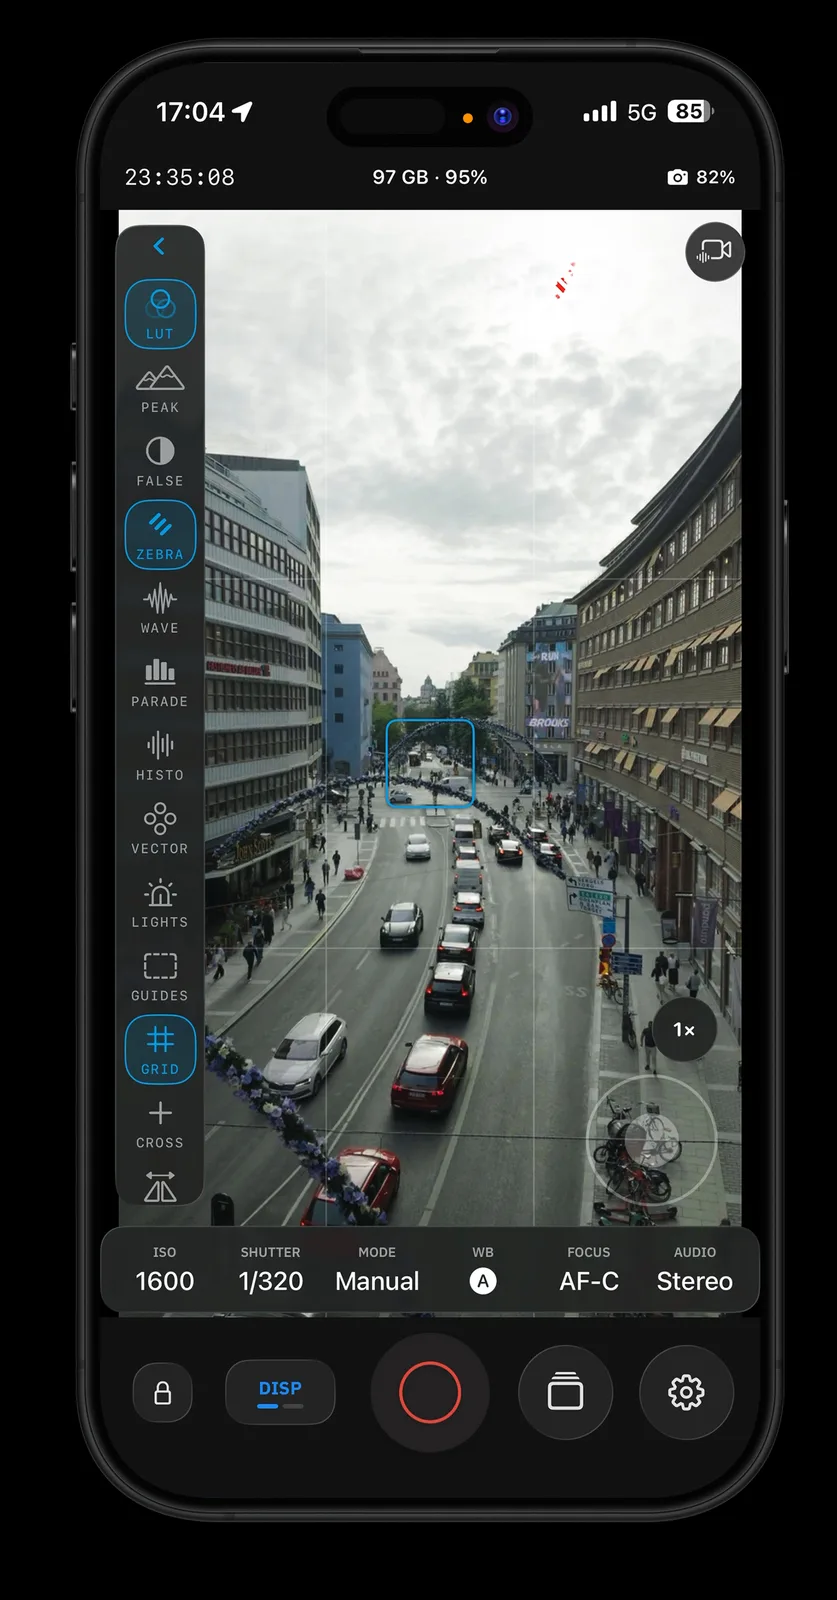
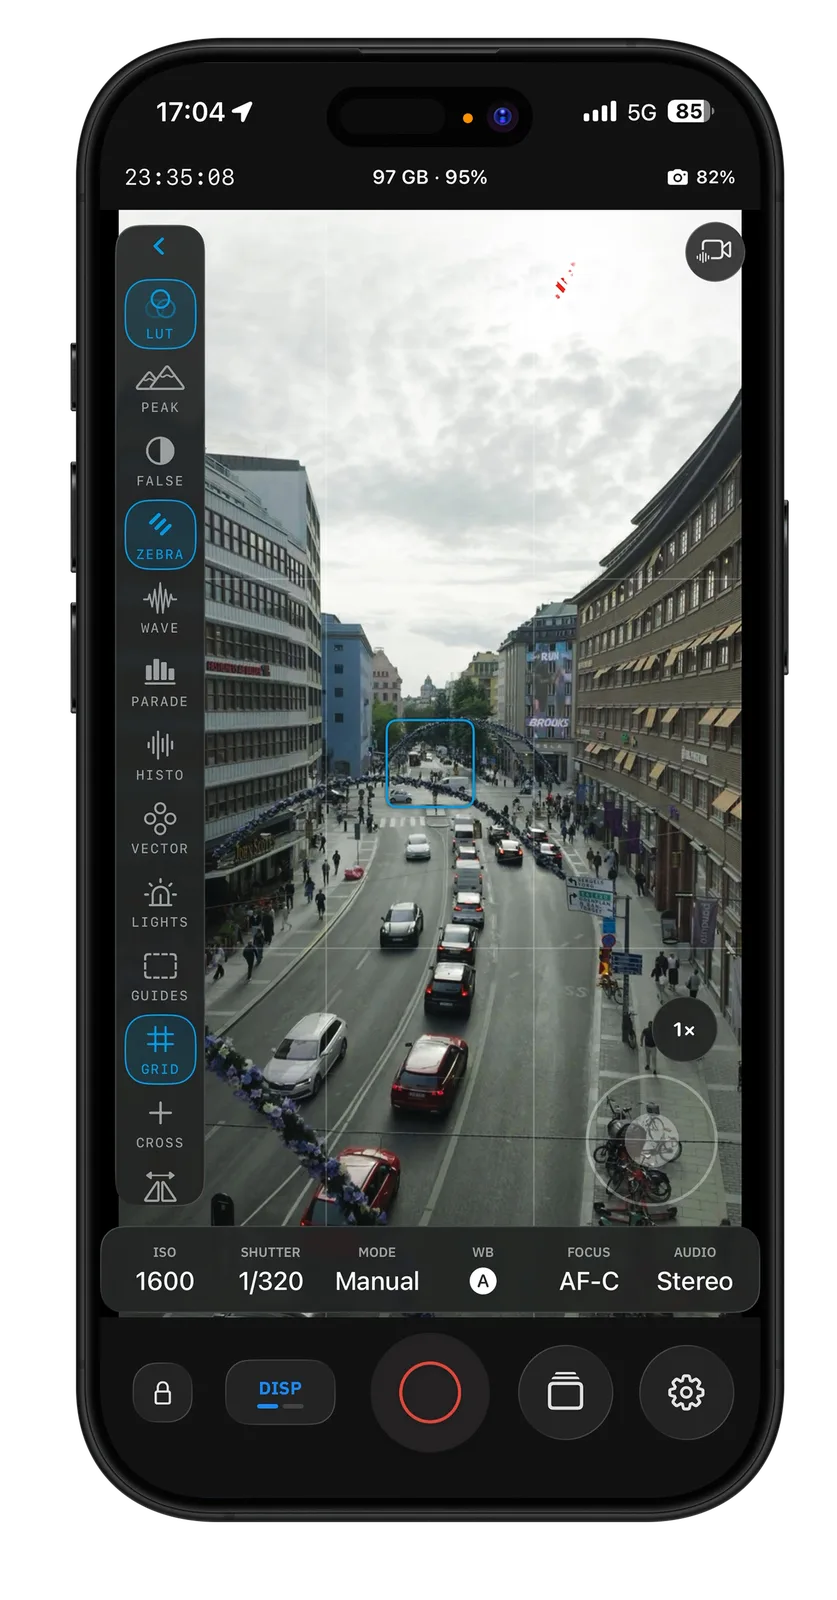
fix: lay field mockups out like the OpenZCine landing page
Drop the 2x2 grid. The lying-down monitor sits under the headline; scopes,
assists, and camera control each get their own copy-and-device section.

Changed region(s): [[0.0, 0.0, 1.0, 1.0]]

diff --git a/site/index.html b/site/index.html
@@ -7,7 +7,7 @@
   <meta name="description" content="OpenPocketCine is a free, open-source field-monitor app for DJI Osmo Pocket cameras. Live view, scopes, and assists over the camera's own Wi-Fi.">
   <meta name="theme-color" content="#0A0908">
   <meta name="referrer" content="no-referrer">
-  <meta http-equiv="Content-Security-Policy" content="default-src 'self'; script-src 'self'; style-src 'self' 'unsafe-inline' https://fonts.googleapis.com; font-src https://fonts.gstatic.com; img-src 'self' data:; connect-src 'self'; object-src 'none'; base-uri 'self'; form-action 'self'; upgrade-insecure-requests">
+  <meta http-equiv="Content-Security-Policy" content="default-src 'self'; script-src 'self' https://cdn.jsdelivr.net; style-src 'self' 'unsafe-inline' https://fonts.googleapis.com; font-src https://fonts.gstatic.com; img-src 'self' data:; connect-src 'self'; object-src 'none'; base-uri 'self'; form-action 'self'; upgrade-insecure-requests">
   <link rel="canonical" href="https://openpocketcine.app/">
   <meta property="og:type" content="website">
   <meta property="og:title" content="OpenPocketCine: Open-source field monitor for DJI Osmo Pocket">
@@ -27,6 +27,7 @@
   <a class="skip-link" href="#top">Skip to content</a>
   <div class="bg-glow" aria-hidden="true"></div>
   <div class="grain" aria-hidden="true"></div>
+  <div class="spotlight" aria-hidden="true"></div>
 
   <header class="nav" id="nav">
     <div class="container nav__inner">
@@ -35,14 +36,15 @@
         <span>OpenPocketCine</span>
       </a>
       <nav class="nav__links" aria-label="Primary">
-        <a href="#shots">Shots</a>
+        <a href="#scopes">Scopes</a>
+        <a href="#assists">Assists</a>
+        <a href="#commander">Control</a>
         <a href="#open-source">Open Source</a>
-        <a href="#credits">Credits</a>
         <a href="/support/">Support</a>
       </nav>
       <div class="nav__cta">
         <a class="nav__github" href="https://github.com/erik-sutton95/OpenPocketCine" target="_blank" rel="noopener" aria-label="OpenPocketCine on GitHub">★ GitHub</a>
-        <a class="btn btn--primary" href="https://github.com/erik-sutton95/OpenPocketCine"><span class="btn__rec" aria-hidden="true"></span>Get the source</a>
+        <a class="btn btn--primary btn--magnetic" href="https://github.com/erik-sutton95/OpenPocketCine"><span class="btn__rec" aria-hidden="true"></span>Get the source</a>
       </div>
     </div>
   </header>
@@ -57,26 +59,99 @@
           with professional scopes and assists. Free, Apache-2.0, no vendor SDK.
         </p>
         <div class="hero__cta" data-intro>
-          <a class="btn btn--primary" href="https://github.com/erik-sutton95/OpenPocketCine">Get the source</a>
-          <a class="btn btn--ghost" href="/support/">How to connect</a>
+          <a class="btn btn--primary btn--magnetic" href="https://github.com/erik-sutton95/OpenPocketCine"><span class="btn__rec" aria-hidden="true"></span>Get the source</a>
+          <a class="btn btn--ghost btn--magnetic" href="/support/">How to connect<span class="btn__arrow" aria-hidden="true">→</span></a>
+        </div>
+
+        <div class="hero__mock" data-intro>
+          <img src="assets/screens/hero-monitor.webp"
+            alt="OpenPocketCine live monitor recording on a landscape iPhone"
+            width="1600" height="638" decoding="async">
         </div>
       </div>
     </section>
 
-    <section class="section" id="shots">
-      <div class="container">
-        <div class="shot-grid">
-          <img src="assets/screens/hero-monitor.webp" alt="OpenPocketCine live monitor recording" width="1600" height="638" decoding="async">
-          <img src="assets/screens/camera-controls.webp" alt="OpenPocketCine camera controls and zoom" width="1600" height="1057" loading="lazy" decoding="async">
-          <img src="assets/screens/scopes.webp" alt="OpenPocketCine waveform and Traffic Lights" width="1600" height="841" loading="lazy" decoding="async">
-          <img src="assets/screens/portrait-assists.webp" alt="OpenPocketCine portrait assist rail" width="837" height="1600" loading="lazy" decoding="async">
+    <div class="ticker" aria-hidden="true">
+      <div class="ticker__track">
+        <span class="ticker__group">
+          <span>Osmo Pocket 4</span><i></i><span>4 Pro</span><i></i><span>Osmo Nano</span><i></i>
+          <span>HEVC</span><i></i><span>AVC</span><i></i><span>D-Log2</span><i></i>
+          <span>Waveform</span><i></i><span>RGB Parade</span><i></i><span>Histogram</span><i></i>
+          <span>Vectorscope</span><i></i><span>False Color</span><i></i><span>Focus Peaking</span><i></i>
+          <span>Zebras</span><i></i><span>Traffic Lights</span><i></i><span>Camera to Cloud</span><i></i>
+        </span>
+        <span class="ticker__group">
+          <span>Osmo Pocket 4</span><i></i><span>4 Pro</span><i></i><span>Osmo Nano</span><i></i>
+          <span>HEVC</span><i></i><span>AVC</span><i></i><span>D-Log2</span><i></i>
+          <span>Waveform</span><i></i><span>RGB Parade</span><i></i><span>Histogram</span><i></i>
+          <span>Vectorscope</span><i></i><span>False Color</span><i></i><span>Focus Peaking</span><i></i>
+          <span>Zebras</span><i></i><span>Traffic Lights</span><i></i><span>Camera to Cloud</span><i></i>
+        </span>
+      </div>
+    </div>
+
+    <section class="statement" aria-label="OpenPocketCine in one sentence">
+      <p class="statement__text" id="statement">
+        <span class="w">Every</span> <span class="w">scope.</span>
+        <span class="w">Every</span> <span class="w">assist.</span>
+        <span class="w">Camera</span> <span class="w">control.</span>
+        <span class="w w--gold">Free,</span> <span class="w w--gold">and</span>
+        <span class="w w--gold">open</span> <span class="w w--gold">source.</span>
+      </p>
+    </section>
+
+    <section class="section phone-showcase" id="scopes">
+      <div class="container phone-showcase__inner">
+        <div class="phone-showcase__copy">
+          <span class="section-label"><span class="rec-dot"></span> Scopes</span>
+          <h2>Read the image like a colorist.</h2>
+          <p class="lead">Waveform, RGB parade, histogram, and vectorscope run live
+            beside the image you are judging, with Traffic Lights on the feed.</p>
         </div>
+        <figure class="phone-showcase__visual phone-showcase__visual--wide">
+          <img src="assets/screens/scopes.webp"
+            alt="OpenPocketCine waveform and Traffic Lights over a live view"
+            width="1600" height="841" loading="lazy" decoding="async">
+        </figure>
       </div>
     </section>
 
-    <section id="open-source">
-      <div class="container">
-        <span class="section-label">Free. Open source. Yours</span>
+    <section class="section phone-showcase" id="assists">
+      <div class="container phone-showcase__inner">
+        <div class="phone-showcase__copy">
+          <span class="section-label"><span class="rec-dot"></span> View Assist</span>
+          <h2>Catch it before the take.</h2>
+          <p class="lead">False color, zebras, Traffic Lights, peaking, grids, and
+            crosshairs sit on a rail next to the image — including in portrait.</p>
+        </div>
+        <figure class="phone-showcase__visual">
+          <img src="assets/screens/portrait-assists.webp"
+            alt="OpenPocketCine portrait assist rail with zebras and framing tools"
+            width="837" height="1600" loading="lazy" decoding="async">
+        </figure>
+      </div>
+    </section>
+
+    <section class="section phone-showcase" id="commander">
+      <div class="container phone-showcase__inner">
+        <div class="phone-showcase__copy">
+          <span class="section-label"><span class="rec-dot"></span> Camera Control</span>
+          <h2>Keep the camera in the rig.</h2>
+          <p class="lead">Pair over Bluetooth, join the camera's Wi-Fi, then set ISO,
+            EV, zoom, gimbal, and record from the phone on your cage.</p>
+        </div>
+        <figure class="phone-showcase__visual phone-showcase__visual--wide">
+          <img src="assets/screens/camera-controls.webp"
+            alt="OpenPocketCine camera controls and zoom while recording"
+            width="1600" height="1057" loading="lazy" decoding="async">
+        </figure>
+      </div>
+    </section>
+
+    <section class="section section--spot spot" id="open-source">
+      <div class="spot__glow" aria-hidden="true"></div>
+      <div class="container spot-oss__inner">
+        <span class="section-label"><span class="rec-dot"></span> Identity Core</span>
         <h2>No subscriptions, no telemetry.</h2>
         <p class="lead">
           OpenPocketCine is Apache-2.0 licensed and built in public with the latest frontier
@@ -124,5 +199,13 @@
       </nav>
     </div>
   </footer>
+
+  <script src="https://cdn.jsdelivr.net/npm/gsap@3.12.5/dist/gsap.min.js"
+    integrity="sha384-g4NTh/Iv5PPU4xPyhEWqPcwtNXOvdaDI8LLnyYfyNZOjKJeYQyjzQ9X5275eBjpt"
+    crossorigin="anonymous"></script>
+  <script src="https://cdn.jsdelivr.net/npm/gsap@3.12.5/dist/ScrollTrigger.min.js"
+    integrity="sha384-Z3REaz79l2IaAZqJsSABtTbhjgOUYyV3p90XNnAPCSHg3EMTz1fouunq9WZRtj3d"
+    crossorigin="anonymous"></script>
+  <script src="assets/app.js" defer></script>
 </body>
 </html>

diff --git a/site/assets/app.css b/site/assets/app.css
@@ -321,11 +321,16 @@ h3 { font-size: clamp(20px, 2.4vw, 26px); line-height: 1.2; letter-spacing: -0.0
   labels. Below this point, keep the compact brand + CTA treatment instead of
   letting individual links wrap inside the fixed-height bar. */
 @media (min-width: 960px) { .nav__links { display: flex; } }
-@media (max-width: 560px) { .nav__github { display: none; } }
+@media (max-width: 560px) {
+  .nav__github { display: none; }
+  /* Hero already carries the primary CTA. */
+  .nav__cta { display: none; }
+}
 
 /* ---- Footer ---- */
 .footer { background: var(--bg-deep); border-top: 1px solid var(--hairline); padding: 48px 0; }
 .footer__inner { display: flex; flex-direction: column; gap: 14px; }
+.footer nav { display: flex; flex-wrap: wrap; gap: 8px 18px; }
 .footer__brand { display: flex; align-items: center; gap: 9px; font-weight: 700; }
 .footer__brand img { border-radius: 6px; }
 .footer__meta { color: var(--muted); font-size: 14px; }
@@ -472,25 +477,29 @@ h3 { font-size: clamp(20px, 2.4vw, 26px); line-height: 1.2; letter-spacing: -0.0
 .hero__inner {
   position: relative; z-index: 1;
   display: flex; flex-direction: column; align-items: center;
+  min-width: 0;
 }
 .hero__inner h1 { margin: 4px 0 20px; text-wrap: balance; }
 .hero__inner .lead { margin: 0 auto; }
 .hero__cta { display: flex; flex-wrap: wrap; gap: 12px; margin-top: 28px; justify-content: center; }
 
-.shot-grid {
-  display: grid;
-  grid-template-columns: 1fr;
-  gap: 12px;
-  margin: clamp(36px, 6vh, 64px) auto 0;
-  width: min(960px, 100%);
+/* Floating product render under the headline. These mockups are already
+  composited on opaque black so they sit on the page without a box glow. */
+.hero__mock {
+  margin-top: clamp(20px, 4vh, 48px);
+  width: 100%;
+  max-width: 1100px;
+  min-width: 0;
+  align-self: stretch;
+  margin-inline: auto;
+  perspective: 1100px;
 }
-@media (min-width: 720px) {
-  .shot-grid { grid-template-columns: 1fr 1fr; }
-}
-.shot-grid img {
-  display: block;
+.hero__mock img {
   width: 100%;
   height: auto;
+  transform: rotateX(var(--rx, 0deg)) rotateY(var(--ry, 0deg));
+  transition: transform .18s ease-out;
+  will-change: transform;
 }
 .hero__disclaimer {
   position: absolute;
@@ -682,6 +691,44 @@ h3 { font-size: clamp(20px, 2.4vw, 26px); line-height: 1.2; letter-spacing: -0.0
   }
 }
 
+/* Portrait product shot: same centered rhythm as the iPad showcase, sized
+  for a standing phone instead of a landscape tablet. */
+.phone-showcase__inner {
+  display: flex;
+  flex-direction: column;
+  align-items: center;
+  min-width: 0;
+}
+.phone-showcase__copy {
+  display: flex;
+  flex-direction: column;
+  align-items: center;
+  text-align: center;
+}
+.phone-showcase__copy h2 {
+  max-width: 16ch;
+  margin: 4px 0 16px;
+  text-wrap: balance;
+}
+.phone-showcase__copy .lead {
+  max-width: 50ch;
+}
+.phone-showcase__visual {
+  width: 100%;
+  max-width: 400px;
+  min-width: 0;
+  align-self: stretch;
+  margin-inline: auto;
+  margin-top: clamp(20px, 3.5vw, 44px);
+}
+.phone-showcase__visual--wide {
+  max-width: 920px;
+}
+.phone-showcase__visual img {
+  width: 100%;
+  height: auto;
+}
+
 /* ================================================================ */
 /* FEATURE ROWS - copy + real device render, scroll-revealed         */
 /* ================================================================ */
@@ -692,7 +739,7 @@ h3 { font-size: clamp(20px, 2.4vw, 26px); line-height: 1.2; letter-spacing: -0.0
   min-height: 220px;
 }
 .feat-row__visual img {
-  width: 100%; max-width: 640px; height: auto;
+  width: 100%; max-width: 720px; height: auto;
 }
 .frameio-lockup {
   display: inline-flex;
@@ -839,7 +886,25 @@ h3 { font-size: clamp(20px, 2.4vw, 26px); line-height: 1.2; letter-spacing: -0.0
 
 /* ---- Open-source spotlight ---- */
 .spot-oss__inner { text-align: center; display: flex; flex-direction: column; align-items: center; }
+.spot-oss__inner h2 { margin: 4px 0 16px; }
 .spot-oss__inner .lead { margin-bottom: 24px; }
+.spot-oss__inner p:not(.lead) { color: var(--muted); max-width: 62ch; }
+
+#credits .container {
+  display: flex;
+  flex-direction: column;
+  align-items: center;
+  text-align: center;
+}
+#credits h2 { margin: 4px 0 16px; }
+#credits h2:nth-of-type(2) { margin-top: 48px; }
+#credits .lead { margin-bottom: 14px; }
+#credits p { color: var(--muted); max-width: 62ch; }
+#credits a {
+  color: var(--accent);
+  text-decoration: underline;
+  text-underline-offset: 3px;
+}
 
 /* ---- Ticks + badges ---- */
 .ticks { list-style: none; display: flex; flex-direction: column; gap: 10px; margin-top: 12px; }

diff --git a/README.md b/README.md
@@ -4,6 +4,12 @@
 [![License: Apache 2.0](https://img.shields.io/badge/License-Apache_2.0-blue.svg)](LICENSE)
 
 <p align="center">
+  <a href="https://openpocketcine.app/">
+    <img alt="OpenPocketCine live monitor recording on a landscape iPhone" src="site/assets/screens/hero-monitor.webp" width="820">
+  </a>
+</p>
+
+<p align="center">
   <strong>The open field monitor for DJI Osmo Pocket.</strong><br>
   Pro monitoring scopes, playback, camera control, and Camera-to-Cloud export with LUT
   baking. Free and open source.
@@ -40,24 +46,29 @@ can be incomplete.
 
 ## See it in action
 
-<table>
-  <tr>
-    <td align="center">
-      <img alt="Live monitor recording" src="site/assets/screens/hero-monitor.webp" />
-    </td>
-    <td align="center">
-      <img alt="Camera controls and zoom" src="site/assets/screens/camera-controls.webp" />
-    </td>
-  </tr>
-  <tr>
-    <td align="center">
-      <img alt="Waveform and Traffic Lights" src="site/assets/screens/scopes.webp" />
-    </td>
-    <td align="center">
-      <img alt="Portrait assist rail" src="site/assets/screens/portrait-assists.webp" />
-    </td>
-  </tr>
-</table>
+### Scopes and on-set assists
+
+<p align="center">
+  <a href="https://openpocketcine.app/#scopes">
+    <img alt="Waveform and Traffic Lights over a live view" src="site/assets/screens/scopes.webp" width="820">
+  </a>
+</p>
+
+### Portrait assist rail
+
+<p align="center">
+  <a href="https://openpocketcine.app/#assists">
+    <img alt="Portrait assist rail with zebras and framing tools" src="site/assets/screens/portrait-assists.webp" width="360">
+  </a>
+</p>
+
+### Camera control
+
+<p align="center">
+  <a href="https://openpocketcine.app/#commander">
+    <img alt="Camera controls and zoom while recording" src="site/assets/screens/camera-controls.webp" width="820">
+  </a>
+</p>
 
 ## Available today
 

diff --git a/site/assets/README.md b/site/assets/README.md
@@ -5,11 +5,10 @@ footage stay in gitignored `.local/`. App LUTs live under
 `ios/OpenPocketCine/Resources/`, not this tree.
 
 `screens/*.webp` are reviewed field-usage mockups for the README and landing
-page. Flatten any transparency onto black first so GitHub's light page does
-not show through, then encode as opaque WebP:
+page. Keep transparency so the phones float on the dark landing page:
 
 ```bash
-cwebp -q 82 -blend_alpha 000000 -resize 1600 0 input.png -o site/assets/screens/name.webp
+cwebp -q 82 -alpha_q 90 -resize 1600 0 input.png -o site/assets/screens/name.webp
 ```
 
 For a portrait source, resize the long edge to 1600 (`-resize 0 1600`).
